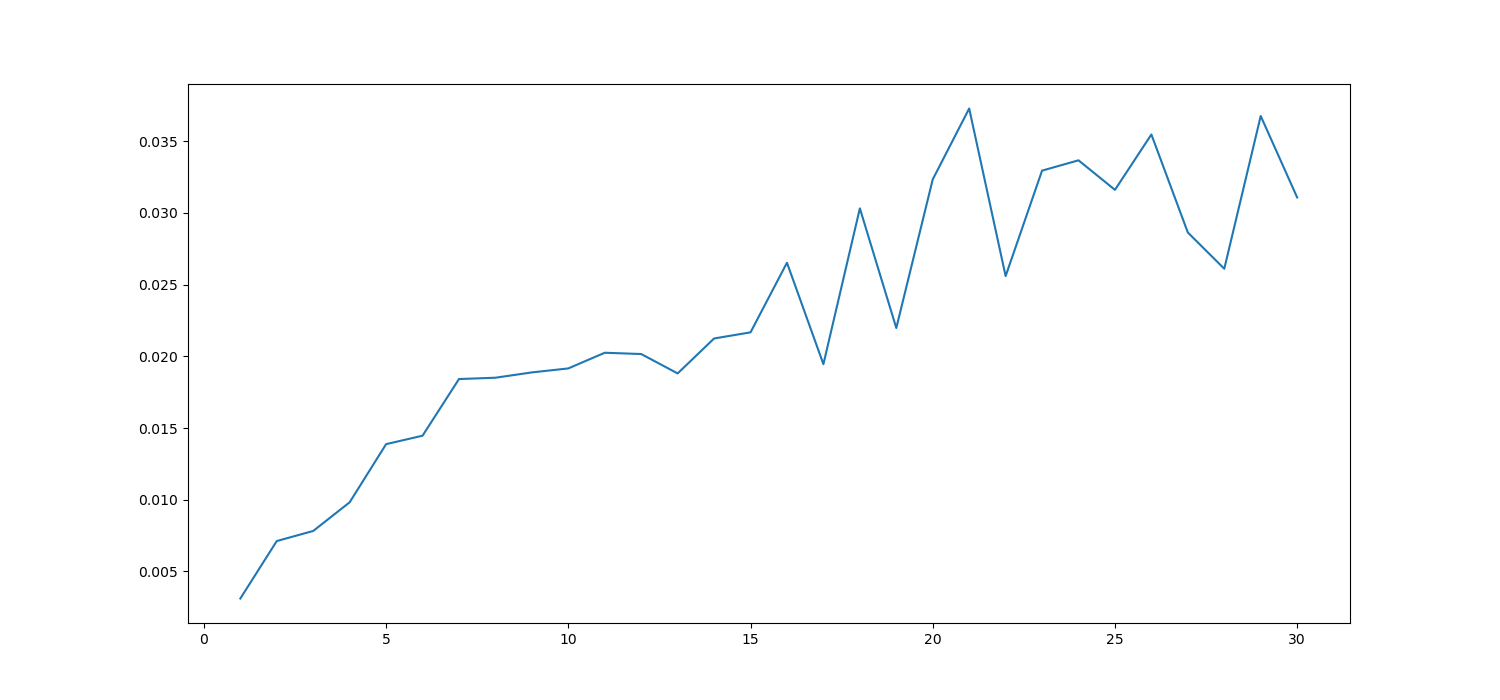
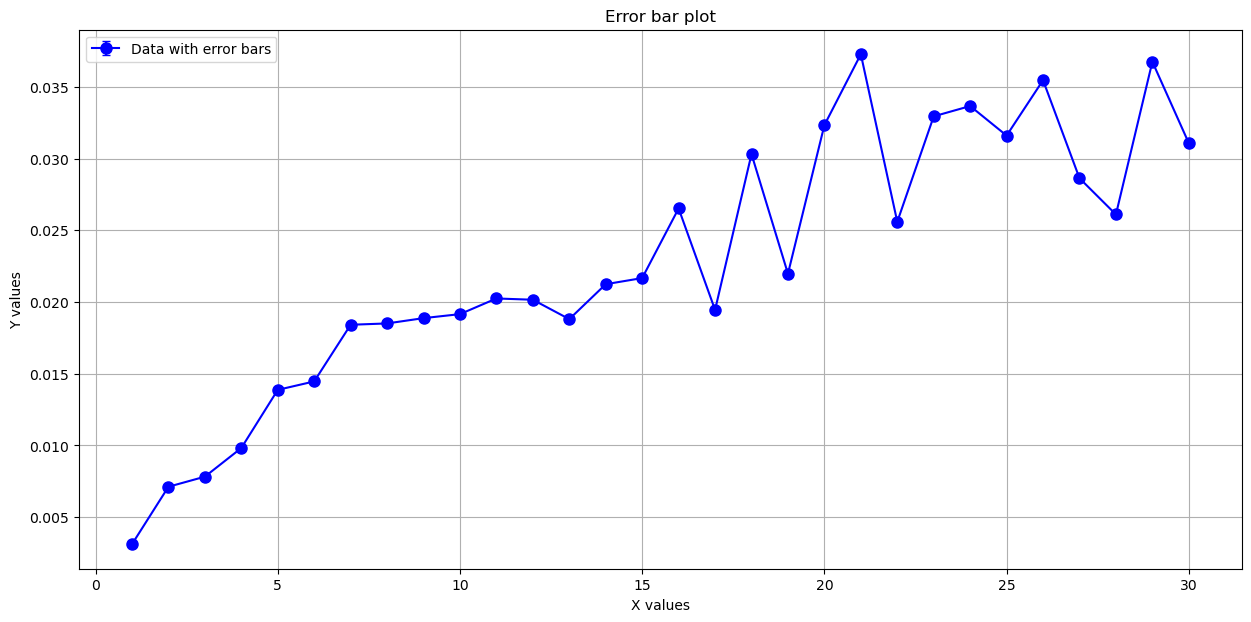
Checkpoint

diff --git a/plot_result.py b/plot_result.py
@@ -3,10 +3,41 @@ import pandas as pd
 import matplotlib.pyplot as plt
 from argparse import ArgumentParser
 
+def check_unique_xaxis(x):
+    return len(x) == len(set(x))
+
 def plot_simple_line(x, y, outfile, figsize=(15, 7)):
     fig, ax = plt.subplots(figsize=figsize)
     ax.plot(x, y)
-    plt.savefig(outfile)
+
+    # Adding labels and title
+    plt.xlabel('X values')
+    plt.ylabel('Y values')
+    plt.title('Error bar plot')
+
+    # Show grid for better readability
+    plt.grid(True)
+
+    # Legend + save
+    plt.legend()
+    plt.savefig(outfile, bbox_inches='tight')
+
+def plot_errbar(x, y_mean, y_std, outfile, figsize=(15, 7)):
+    fig, ax = plt.subplots(figsize=figsize)
+    ax.errorbar(x, y_mean, yerr=y_std, fmt='-o', capsize=3, color='b', label='Data with error bars', markersize=8)
+    
+    # Adding labels and title
+    plt.xlabel('X values')
+    plt.ylabel('Y values')
+    plt.title('Error bar plot')
+
+    # Show grid for better readability
+    plt.grid(True)
+
+    # Legend + save
+    plt.legend()
+    plt.savefig(outfile, bbox_inches='tight')
+
 
 if __name__ == '__main__':
     parser = ArgumentParser()
@@ -18,6 +49,15 @@ if __name__ == '__main__':
 
     if os.path.exists(args['outfile']):
         df = pd.read_csv(args['outfile'])
-        plot_simple_line(df[args['xaxis']], df[args['yaxis']], args['resultfile'])
+        xaxis, yaxis = args['xaxis'], args['yaxis']
+
+        # Plot simple line
+        if check_unique_xaxis(df[xaxis].to_list()):
+            plot_simple_line(df[xaxis], df[yaxis], args['resultfile'])
+        else: # Plot error bar
+            mean = df.groupby(xaxis).mean()[yaxis]
+            std  = df.groupby(xaxis).std()[yaxis].fillna(0)
+            x    = mean.index
+            plot_errbar(x, mean, std, args['resultfile'])
     else:
         print(f'File args["outfile"] does not exist')
